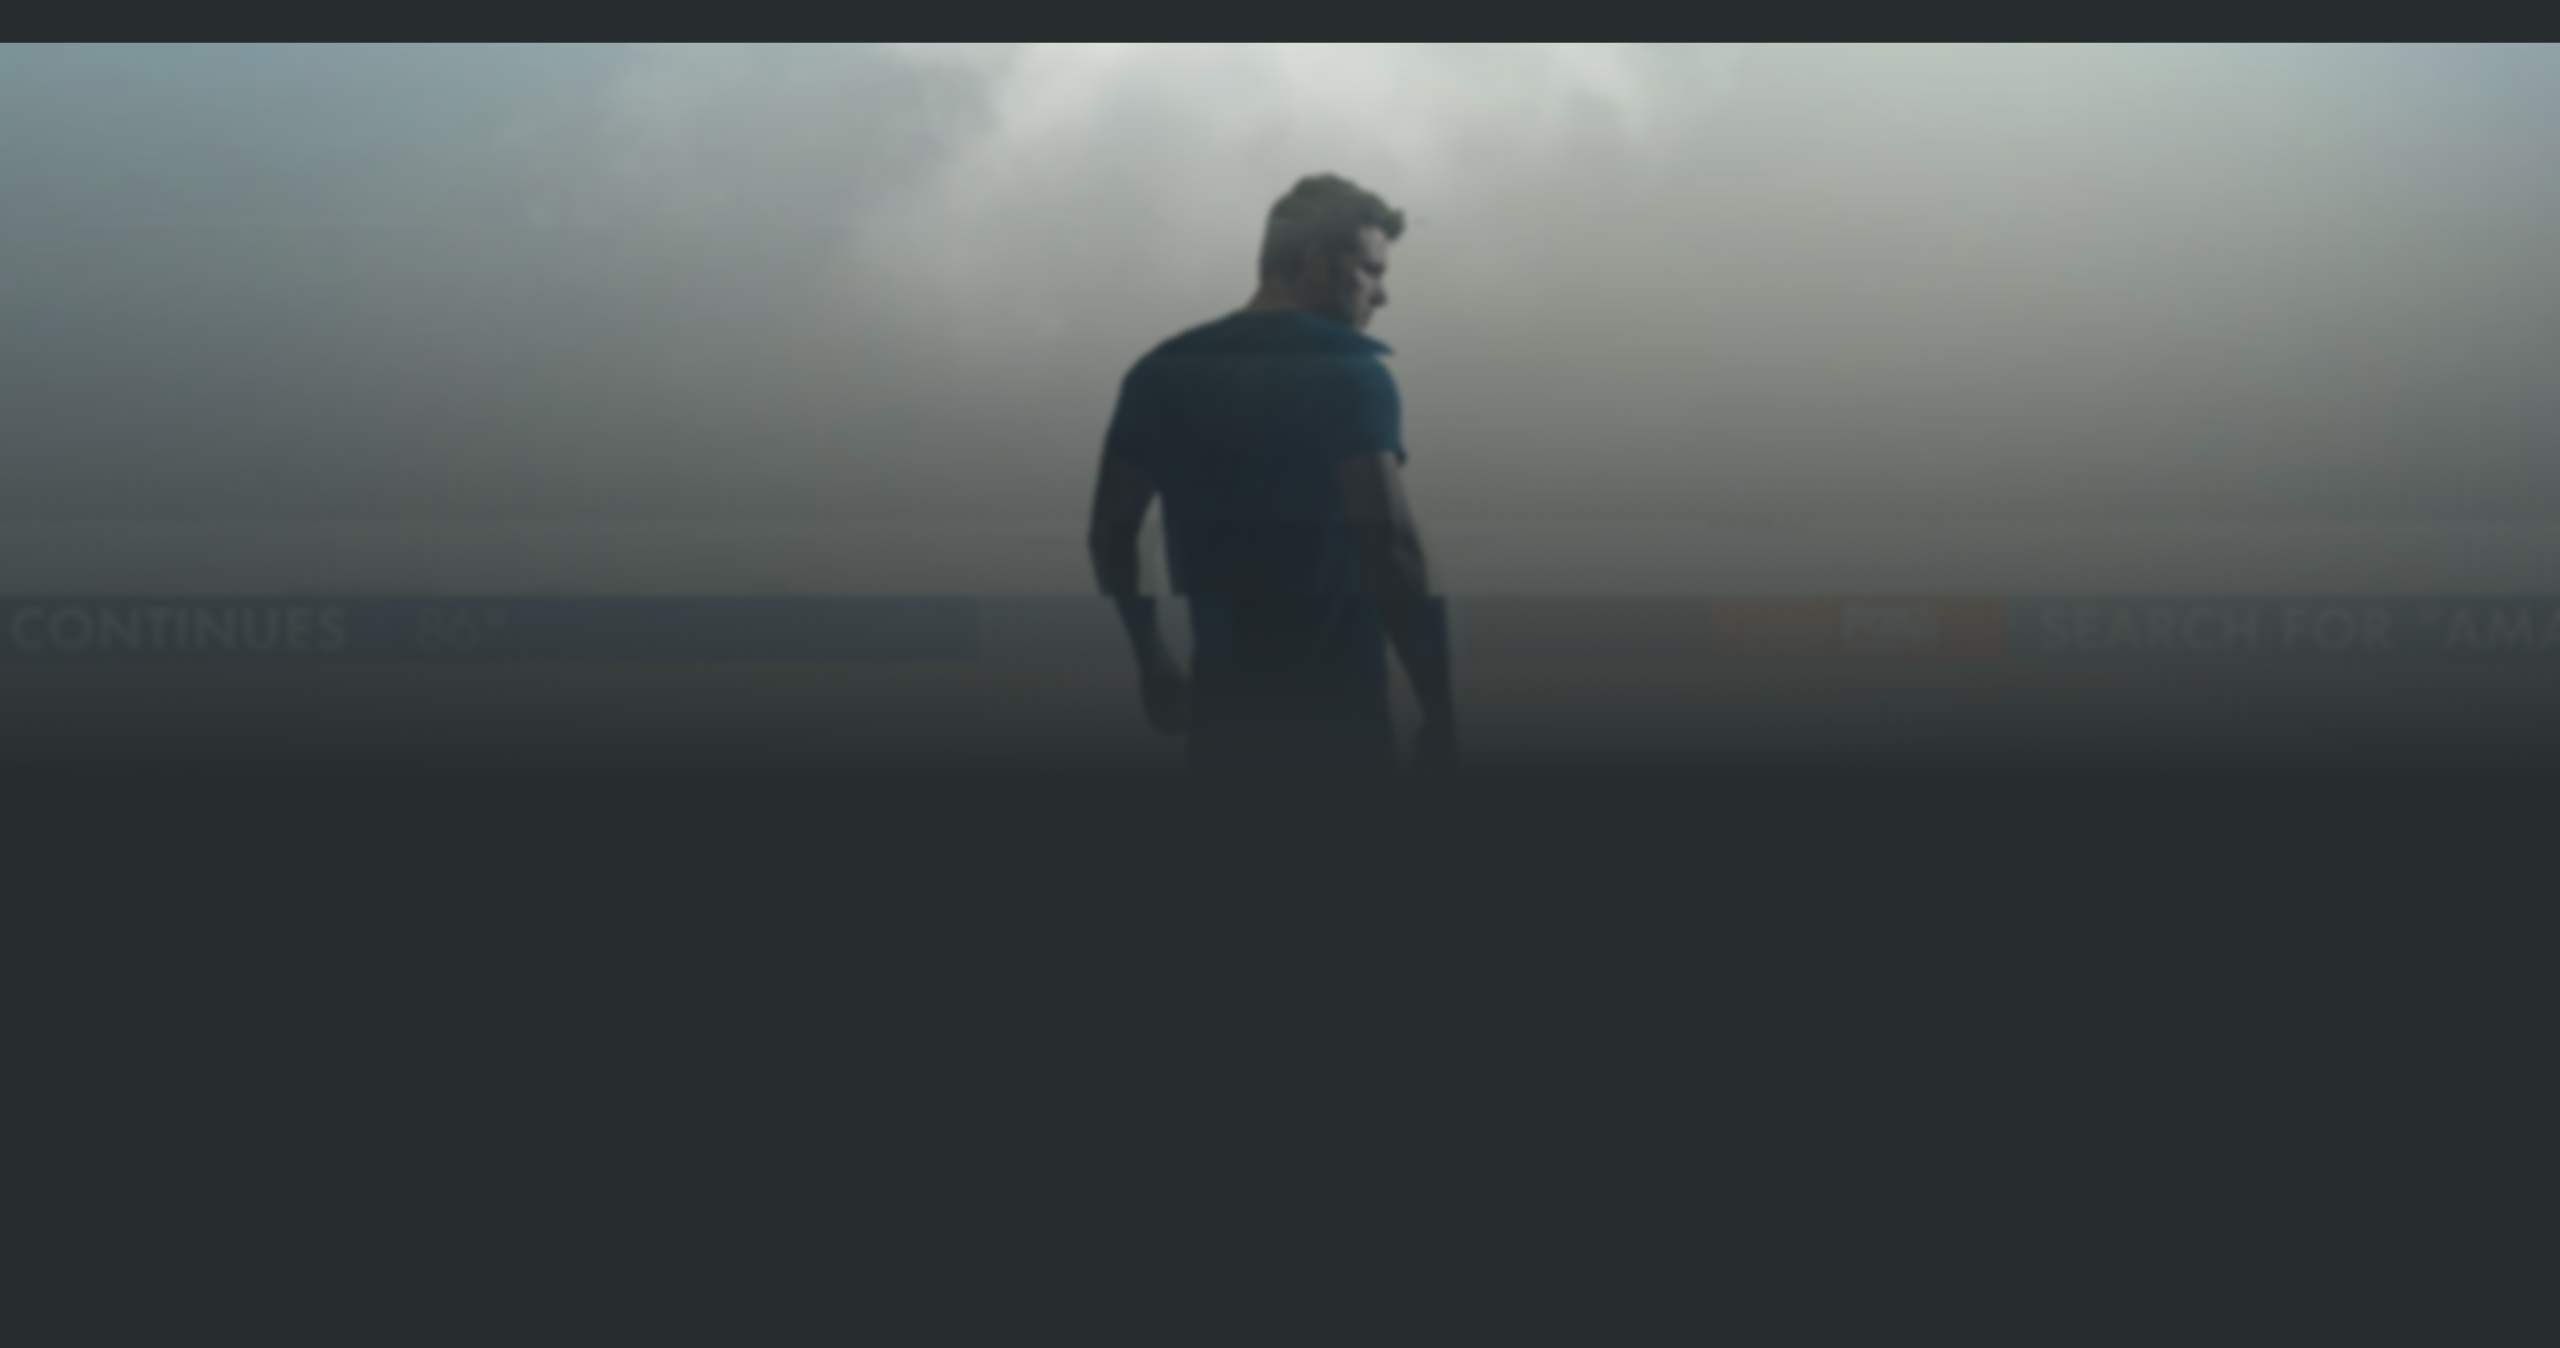
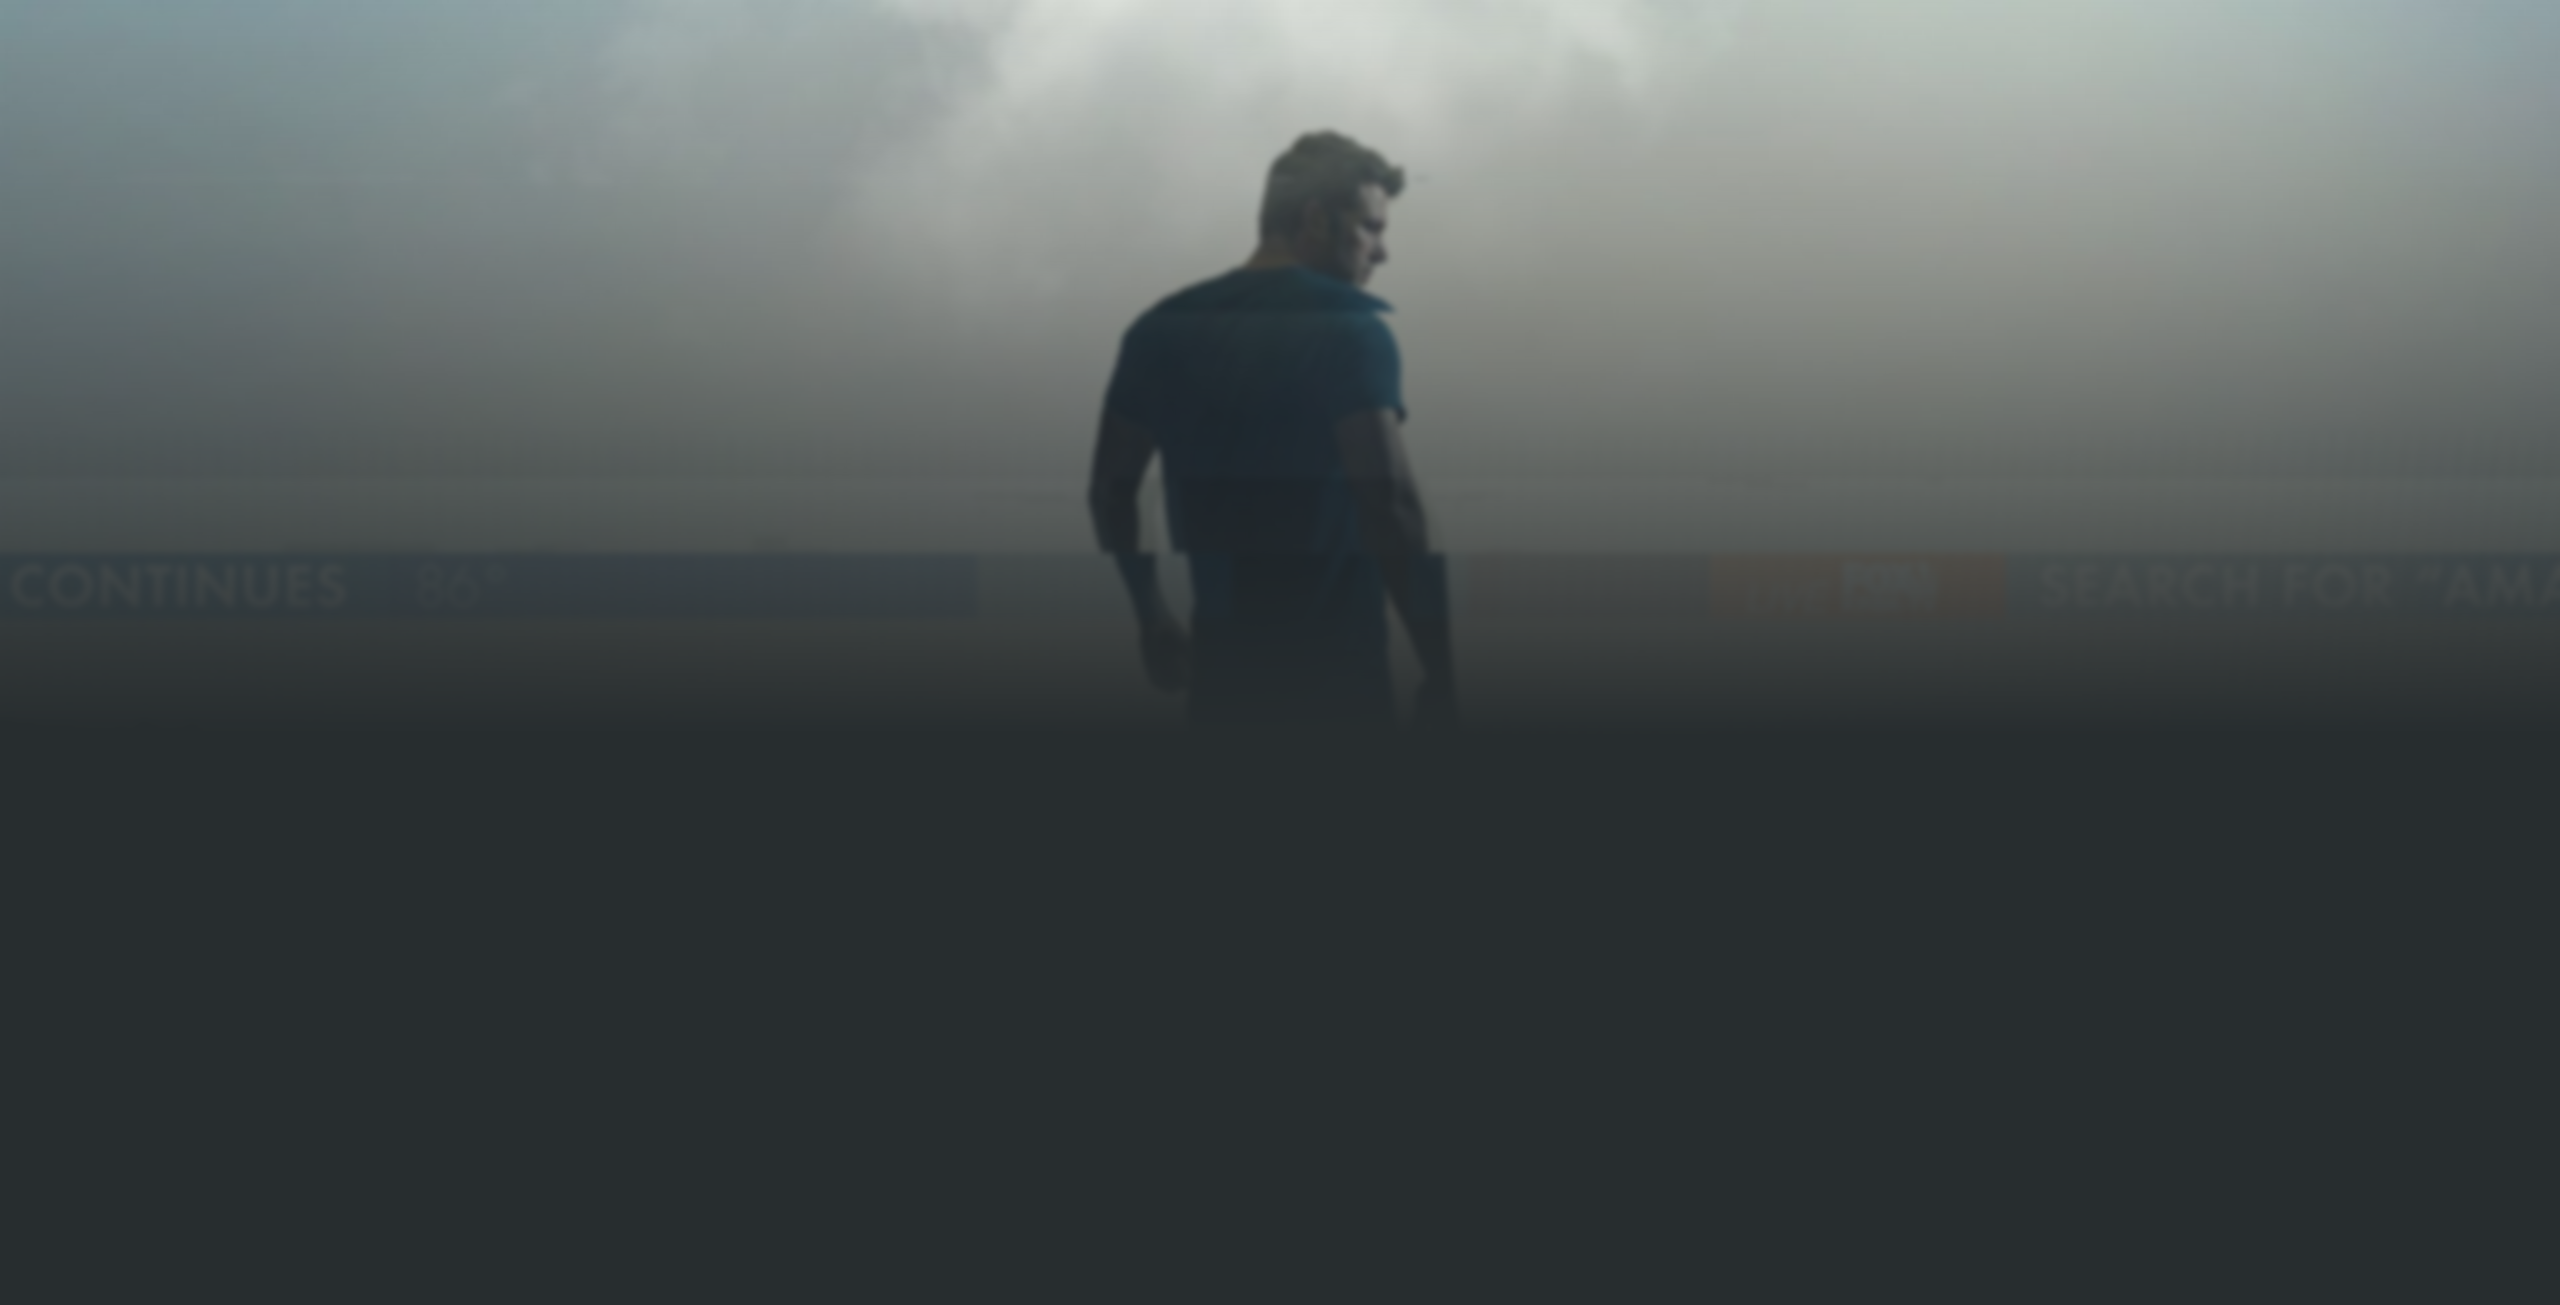
styling work, fix background

diff --git a/src/Components/Info.js b/src/Components/Info.js
@@ -14,6 +14,7 @@ import img_12 from '../Images/The_room.jpg'
 import img_13 from '../Images/Velocipastor.jpg'
 import img_14 from '../Images/Waking_life.jpg'
 import img_15 from '../Images/yeti.jpg'
+import img_16 from '../Images/profileIcon.png'
 
 const Info = [
     {
@@ -21,7 +22,8 @@ const Info = [
         title: "Braveheart",
         coverImg: img_1,
         year: 1995,
-        moviePicker: "Diogo",
+        moviePicker: "Diogo Pinto",
+        profilePic: img_16,
         genres: "Biography, Drama, History, War",
         duration: "2h 58m",
         rate: 8.4
@@ -31,7 +33,8 @@ const Info = [
         title: "Children Of Men",
         coverImg: img_2,
         year: 2006,
-        moviePicker: "Unkown",
+        moviePicker: "Unknown",
+        profilePic: img_16,
         genres: "Action, Drama, Sci-Fi, Thriller",
         duration: "1h 49m",
         rate: 7.9
@@ -42,6 +45,7 @@ const Info = [
         coverImg: img_3,
         year: 2002,
         moviePicker: "RodNog",
+        profilePic: img_16,
         genres: "Crime, Drama",
         duration: "2h 10m",
         rate: 8.6
@@ -51,7 +55,8 @@ const Info = [
         title: "The Imitation Game",
         coverImg: img_4,
         year: 2014,
-        moviePicker: "Unkown",
+        moviePicker: "Unknown",
+        profilePic: img_16,
         genres: "Biography, Drama, Thriller, War",
         duration: "1h 54m",
         rate: 8.0
@@ -61,7 +66,8 @@ const Info = [
         title: "Gone Girl",
         coverImg:img_5,
         year: 2014,
-        moviePicker: "Sérgio Sequeira",
+        moviePicker: "Sérgio",
+        profilePic: img_16,
         genres: "Drama, Mistery, Thriller",
         duration: "2h 29m",
         rate: 8.0
@@ -72,6 +78,7 @@ const Info = [
         coverImg: img_6,
         year: 2013,
         moviePicker: "Ianis",
+        profilePic: img_16,
         genres: "Comedy, Fantasy, Horror",
         duration: "1h 26m",
         rate: 5.0
@@ -82,6 +89,7 @@ const Info = [
         coverImg: img_7,
         year: 2009,
         moviePicker: "Eduarda",
+        profilePic: img_16,
         genres: "Comedy, Drama",
         duration: "2h 50m",
         rate: 8.4
@@ -92,6 +100,7 @@ const Info = [
         coverImg: img_8,
         year: 2014,
         moviePicker: "Minibix",
+        profilePic: img_16,
         genres: "Adventure, Drama, Sci-Fi",
         duration: "2h 49m",
         rate: 8.6
@@ -102,6 +111,7 @@ const Info = [
         coverImg: img_9,
         year: 2019,
         moviePicker: "Marina",
+        profilePic: img_16,
         genres: "Comedy, Crime, Drama, Mystery, Thriller",
         duration: "2h 10m",
         rate: 7.9
@@ -112,6 +122,7 @@ const Info = [
         coverImg: img_10,
         year: 2003,
         moviePicker: "Alex",
+        profilePic: img_16,
         genres: "Action, Drama, Mystery, Thriller",
         duration: "2h",
         rate: 8.4
@@ -122,6 +133,7 @@ const Info = [
         coverImg: img_11,
         year: 2010,
         moviePicker: "Unknown",
+        profilePic: img_16,
         genres: "Mystery, Thriller",
         duration: "2h 18m",
         rate: 8.2
@@ -132,6 +144,7 @@ const Info = [
         coverImg: img_12,
         year: 2003,
         moviePicker: "Ramalho",
+        profilePic: img_16,
         genres: "Drama",
         duration: "1h 39m",
         rate: 3.6
@@ -142,6 +155,7 @@ const Info = [
         coverImg: img_13,
         year: 2018,
         moviePicker: "Vegui",
+        profilePic: img_16,
         genres: "Action, Adventure, Comedy, Fantasy, Horror, Sci-Fi, Thriller",
         duration: "1h 15m",
         rate: 5.0
@@ -152,6 +166,7 @@ const Info = [
         coverImg: img_14,
         year: 2001,
         moviePicker: "Gripe",
+        profilePic: img_16,
         genres: "Animation, Drama, Fantasy",
         duration: "1h 39m",
         rate: 7.7
@@ -162,6 +177,7 @@ const Info = [
         coverImg: img_15,
         year: 2008,
         moviePicker: "Matinhos",
+        profilePic: img_16,
         genres: "Action, Adventure, Horror, Thriller",
         duration: "1h 27m",
         rate: 3.3

diff --git a/src/Components/Movie.js b/src/Components/Movie.js
@@ -1,5 +1,6 @@
 import React, { useState } from "react";
 import Info from "./Info";
+import img_1 from '../Images/icon_imdb.png'
 
 // Movie object
 // creates movie instance from info
@@ -15,28 +16,31 @@ function Movie({isCurrent}){
     return(
         <div>
             <div className="currentMovie">
-                {console.log("entrei no current movie")}
                 {/* SHOWCASE ALL INFO */}
                 <img src={Info[listIndex].coverImg} className="movieCover" height={300} width={200} alt="Movie Cover"/>
                 <div className="currentMovieInfo">
-                    <p>Title: {Info[listIndex].title}</p>
-                    <p>Movie Picker: {Info[listIndex].moviePicker}</p>
-                    <p>Genre: {Info[listIndex].genres}</p>
-                    <p>Duration: {Info[listIndex].duration}</p>
-                    <p>Rate: {Info[listIndex].rate}</p>
+                    <p>{Info[listIndex].title}</p>
+                    <p>{Info[listIndex].moviePicker}</p>
+                    <p>{Info[listIndex].genres}</p>
+                    <p>{Info[listIndex].duration}</p>
+                    <div>
+                    <img src={img_1} alt="imdb icon"/>
+                    <p>{Info[listIndex].rate}</p>
+                    </div>
                 </div>
-            </div>   
+            </div>
+            <h2>Previous Movies</h2>
             <div className="previousMovies">
-                    {console.log("entrei no previous movie")}
-                    {Info.map((item, index) => {
-                    return(
-                        <div className="moviePreviousMovie" onClick={()=> setCurrentMovie(index) }>
-                            <img src={item.coverImg} className="movieCover" height={300} width={200} alt="Movie Cover"/>
-                            <p>Title: {item.title}</p>
-                            <p>Movie Picker: {item.moviePicker}</p>
-                        </div>        
+                {Info.map((item, index) => {
+                return(
+                    <div className="moviePreviousMovie" onClick={()=> setCurrentMovie(index) }>
+                        <img src={item.coverImg} className="movieCover" height={300} width={200} alt="Movie Cover"/>
+                        <p classname="title">{item.title}</p>
+                        <img src={item.profilePic} height={30} width={30} alt="profile"/>
+                        <p>{item.moviePicker}</p>
+                    </div>        
                     )
-                    })}
+                })}
             </div>
         </div>
     )

diff --git a/src/App.css b/src/App.css
@@ -1,5 +1,6 @@
 .App {
   font: bold;
+  color: white;
   text-align: center;
 }
 
@@ -21,9 +22,9 @@
 
 .currentMovie{
   /*border: solid red;                /*Debug*/
-  display: flex;
   margin: 20px;
-  font-size: x-large;
+  font-style: italic;
+  display: flex;
 }
 
 .currentMovieInfo{
@@ -39,4 +40,9 @@
 .movieCover{
   /*border: red;                    /*Debug*/
   border-radius: 15px;
+}
+
+.title{
+  font-size: large;
+  font-style: italic;
 }
